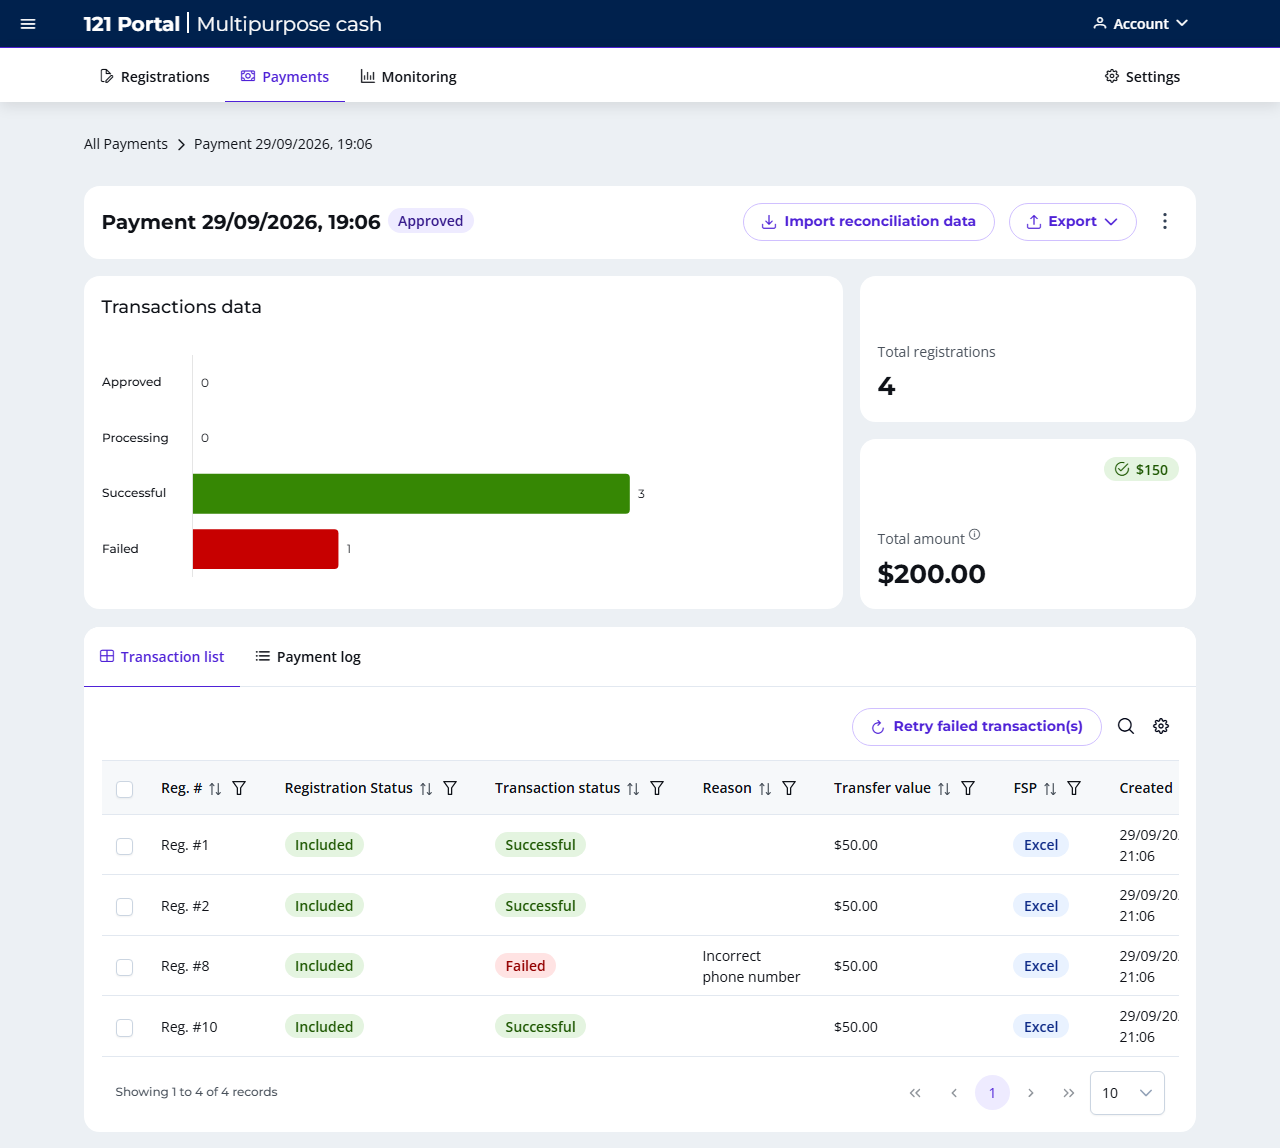
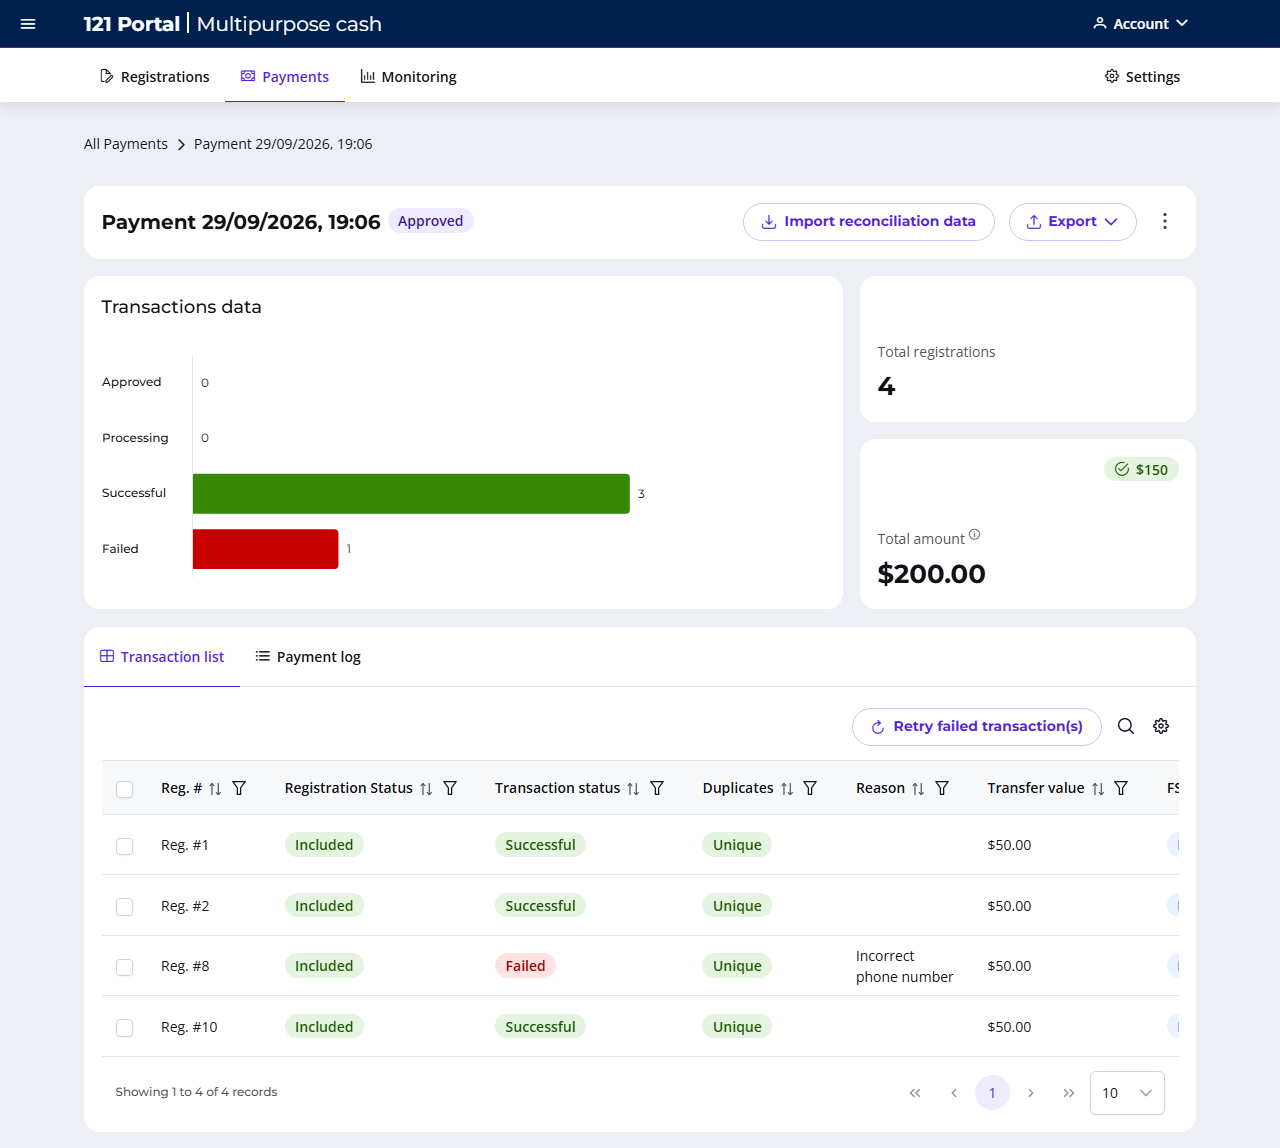
docs: refresh screenshots and add images for new sections (EN, FR)
- Refreshed: Kobo link dialog (new help sections), user row menu (Edit,
  Copy email), registrations search, and the payment pages (Duplicates
  column in the transaction list).
- New images on the pages that document new features: Edit user,
  Delete registration(s), Activity log, Payment log, Create another
  Excel FSP, De-duplication card.

diff --git a/docs/fr/registration/registrations-page.md b/docs/fr/registration/registrations-page.md
@@ -57,7 +57,7 @@ La suppression d'un enregistrement efface ses données personnelles de la platef
     La suppression d'enregistrements nécessite une permission spécifique. Par défaut, aucun rôle standard ne l'a. Contactez notre équipe d'assistance si vous devez supprimer des enregistrements.
 
 - Sur la page **Enregistrements**, sélectionnez les enregistrements à supprimer et cliquez sur **Supprimer** en haut du tableau. Ou ouvrez un profil d'enregistrement, cliquez sur **Actions** puis, sous **Mise à jour du statut**, sur **Supprimer** ;
-- La fenêtre contextuelle **Supprimer Enregistrements** apparaît. Indiquez une raison dans **Indiquer la raison de la mise à jour**. La raison est obligatoire ;
+- La fenêtre contextuelle **Supprimer Enregistrements** apparaît. Indiquez une raison dans **Indiquer la raison de la mise à jour**. La raison est obligatoire ; ![Fenêtre Supprimer des enregistrements](../assets/img/DeleteRegistration.png)
 - Cochez **Je comprends que cette action est irréversible.** ;
 - Cliquez sur **Supprimer l'enregistrement** (ou **Supprimer les enregistrements**).
 

diff --git a/docs/fr/settings/registration-data.md b/docs/fr/settings/registration-data.md
@@ -184,7 +184,7 @@ Si vous souhaitez simplifier les libellés affichés dans les profils 121 et dan
 Sur la carte **Dédoublonnage**, vous choisissez les champs que la plateforme 121 utilise pour trouver les enregistrements en doublon. Si l'un de ces champs est identique pour deux enregistrements ou plus, ces enregistrements sont marqués comme doublons. Choisissez des identifiants uniques, comme les numéros de téléphone, les numéros de compte bancaire ou les numéros d'identification. La carte est aussi disponible si vous n'utilisez pas Kobo et importez vos enregistrements via Excel.
 
 - Accédez à la page **Données d'enregistrement** sous **Paramètres** ;
-- Sur la carte **Dédoublonnage**, cliquez sur **:octicons-pencil-24: Modifier** ;
+- Sur la carte **Dédoublonnage**, cliquez sur **:octicons-pencil-24: Modifier** ; ![Carte Dédoublonnage avec le bouton Modifier](../assets/img/settings-deduplication.png)
 - Dans **Champs de dédoublonnage :**, sélectionnez un ou plusieurs champs ;
 - Cliquez sur **:material-check: Sauvegarder**.
 

diff --git a/docs/en/registration/registrations-page.md b/docs/en/registration/registrations-page.md
@@ -57,7 +57,7 @@ Deleting a registration removes its personal data from the 121 platform. Only de
     Deleting registrations needs a separate permission. By default, no standard role has it. Contact our support team if you need to delete registrations.
 
 - On the **Registrations** page, select the registrations you want to delete and click **Delete** on the top of the table. Or open a registration profile, click **Actions** and, under **Status update**, click **Delete**;
-- The **Delete registration(s)** pop-up appears. Enter a reason in **Write a reason for the update**. The reason is required;
+- The **Delete registration(s)** pop-up appears. Enter a reason in **Write a reason for the update**. The reason is required; ![Delete registration(s) pop-up](../assets/img/DeleteRegistration.png)
 - Tick **I understand this action can not be undone.**;
 - Click **Delete registration** (or **Delete registrations**).
 

diff --git a/docs/en/settings/registration-data.md b/docs/en/settings/registration-data.md
@@ -172,7 +172,7 @@ If you wish to simplify the questions as displayed in the 121 profiles and regis
 On the **De-duplication** card, you choose the fields that the 121 platform uses to find duplicate registrations. If any of these fields match across two or more registrations, those registrations are marked as duplicates. Choose unique identifiers, like phone numbers, bank account numbers or ID numbers. The card is also available if you do not use Kobo and import your registrations with Excel.
 
 - Navigate to the page **Registration data** under **Settings**;
-- On the **De-duplication** card, click **:octicons-pencil-24: Edit**;
+- On the **De-duplication** card, click **:octicons-pencil-24: Edit**; ![De-duplication card with the Edit button](../assets/img/settings-deduplication.png)
 - In **Duplication fields:**, select one or more fields;
 - Click **:material-check: Save**.
 

diff --git a/docs/fr/settings/fsp-integration.md b/docs/fr/settings/fsp-integration.md
@@ -45,7 +45,7 @@ Si vous utilisez l'option manuelle via Excel, vous pouvez configurer plusieurs P
 Pour ajouter un autre PSF Excel :
 
 - Sur la carte d'un PSF Excel, cliquez sur les 3 points :material-dots-vertical: ;
-- Sélectionnez **Créez un autre PSF Excel** ;
+- Sélectionnez **Créez un autre PSF Excel** ; ![Menu du PSF Excel avec Créez un autre PSF Excel](../assets/img/settings-fspintegration-excelfsp.png)
 - Remplissez le champ **Nom d'affichage** ;
 - Sélectionnez le champ **Unique identifier field**. Ce champ est utilisé lors de la réconciliation pour mettre à jour le statut de la transaction de chaque enregistrement, par exemple le numéro de téléphone ou le numéro d'identification ;
 - Si vous le souhaitez, sélectionnez les **FSP export fields (optional)**. Ce sont les champs inclus dans le rapport de paiement que vous envoyez à votre PSF ;

diff --git a/docs/en/settings/fsp-integration.md b/docs/en/settings/fsp-integration.md
@@ -45,7 +45,7 @@ If you use the manual option with Excel, you can set up more than one Excel FSP 
 To add another Excel FSP:
 
 - On the card of an Excel FSP, click on the 3 dots :material-dots-vertical:;
-- Select **Create another Excel FSP**;
+- Select **Create another Excel FSP**; ![Excel FSP menu with Create another Excel FSP](../assets/img/settings-fspintegration-excelfsp.png)
 - Fill in the **Display name**;
 - Select the **Unique identifier field**. This field is used during reconciliation to update the transaction status of each registration, for example the phone number or ID number;
 - Optionally, select the **FSP export fields (optional)**. These are the fields included in the payment report you send to your FSP;

diff --git a/docs/fr/registration/edit-pa-profile.md b/docs/fr/registration/edit-pa-profile.md
@@ -48,7 +48,7 @@ Vous pouvez ouvrir plusieurs images en même temps, par exemple pour les compare
 L'onglet **Journal d'activité** d'un profil d'enregistrement liste tout ce qui est arrivé à l'enregistrement, avec l'utilisateur qui l'a fait (**Fait par**) et la **Date et heure**.
 
 - **Entrez le profil d'enregistrement** en cliquant sur le lien **Enreg. #** ;
-- Cliquez sur l'onglet **Journal d'activité** ;
+- Cliquez sur l'onglet **Journal d'activité** ; ![Onglet Journal d'activité d'un enregistrement](../assets/img/ActivityLog.png)
 - Pour n'afficher qu'un type d'activité, filtrez la colonne **Activité** ;
 - Dépliez une ligne pour voir ses détails.
 

diff --git a/docs/fr/payment/payment-reporting.md b/docs/fr/payment/payment-reporting.md
@@ -72,7 +72,7 @@ Chaque page de paiement a deux onglets : **Liste des transactions** et **Journal
 1. Allez à la **page Paiements** ;
 2. Cliquez sur le paiement que vous souhaitez consulter ;
 3. Cliquez sur l'onglet **Journal des paiements**.
-   Pour chaque événement, le tableau affiche l'**Activité**, une **Vue d'ensemble**, la personne qui l'a fait (**Fait par**) et la **Date et heure**.
+   Pour chaque événement, le tableau affiche l'**Activité**, une **Vue d'ensemble**, la personne qui l'a fait (**Fait par**) et la **Date et heure**. ![Onglet Journal des paiements d'un paiement](../assets/img/PaymentLog.png)
 
 ---
 

diff --git a/docs/en/registration/edit-pa-profile.md b/docs/en/registration/edit-pa-profile.md
@@ -48,7 +48,7 @@ You can open several images at the same time, for example to compare them.
 The **Activity log** tab of a registration profile lists everything that happened to the registration, with the user who did it (**Done by**) and the **Date and time**.
 
 - **Enter the registration profile** by clicking on the **Reg. #** hyperlink;
-- Click on the **Activity log** tab;
+- Click on the **Activity log** tab; ![Activity log tab of a registration](../assets/img/ActivityLog.png)
 - To show only one type of activity, filter the **Activity** column;
 - Expand a line to see its details.
 

diff --git a/docs/en/payment/payment-reporting.md b/docs/en/payment/payment-reporting.md
@@ -72,7 +72,7 @@ Each payment page has two tabs: **Transaction list** and **Payment log**. The **
 1. Go to **Payments** page;
 2. Click on the payment you want to check;
 3. Click on the **Payment log** tab.
-   For each event, the table shows the **Activity**, an **Overview**, who did it (**Done by**) and the **Date and time**.
+   For each event, the table shows the **Activity**, an **Overview**, who did it (**Done by**) and the **Date and time**. ![Payment log tab of a payment](../assets/img/PaymentLog.png)
 
 ---
 

diff --git a/docs/fr/users/add-users.md b/docs/fr/users/add-users.md
@@ -44,7 +44,7 @@ Vous pouvez modifier le nom d'un utilisateur.
 
 - À la fin de la ligne utilisateur, cliquez sur le **:material-dots-horizontal: trois points**,
 - Sélectionnez **Modifier**,
-- Modifiez le champ **Nom et prénom**,
+- Modifiez le champ **Nom et prénom**, ![Fenêtre Modifier l'utilisateur](../assets/img/EditUser.png)
 - Cliquez sur **Enregistrer les modifications**.
 
 !!! Note

diff --git a/docs/en/users/add-users.md b/docs/en/users/add-users.md
@@ -44,7 +44,7 @@ You can change the name of a user.
 
 - At the end of the user row, click on the **:material-dots-horizontal: three dots**,
 - Select **Edit**,
-- Change the **Full name**,
+- Change the **Full name**, ![Edit user dialog](../assets/img/EditUser.png)
 - Click **Save changes**.
 
 !!! Note
